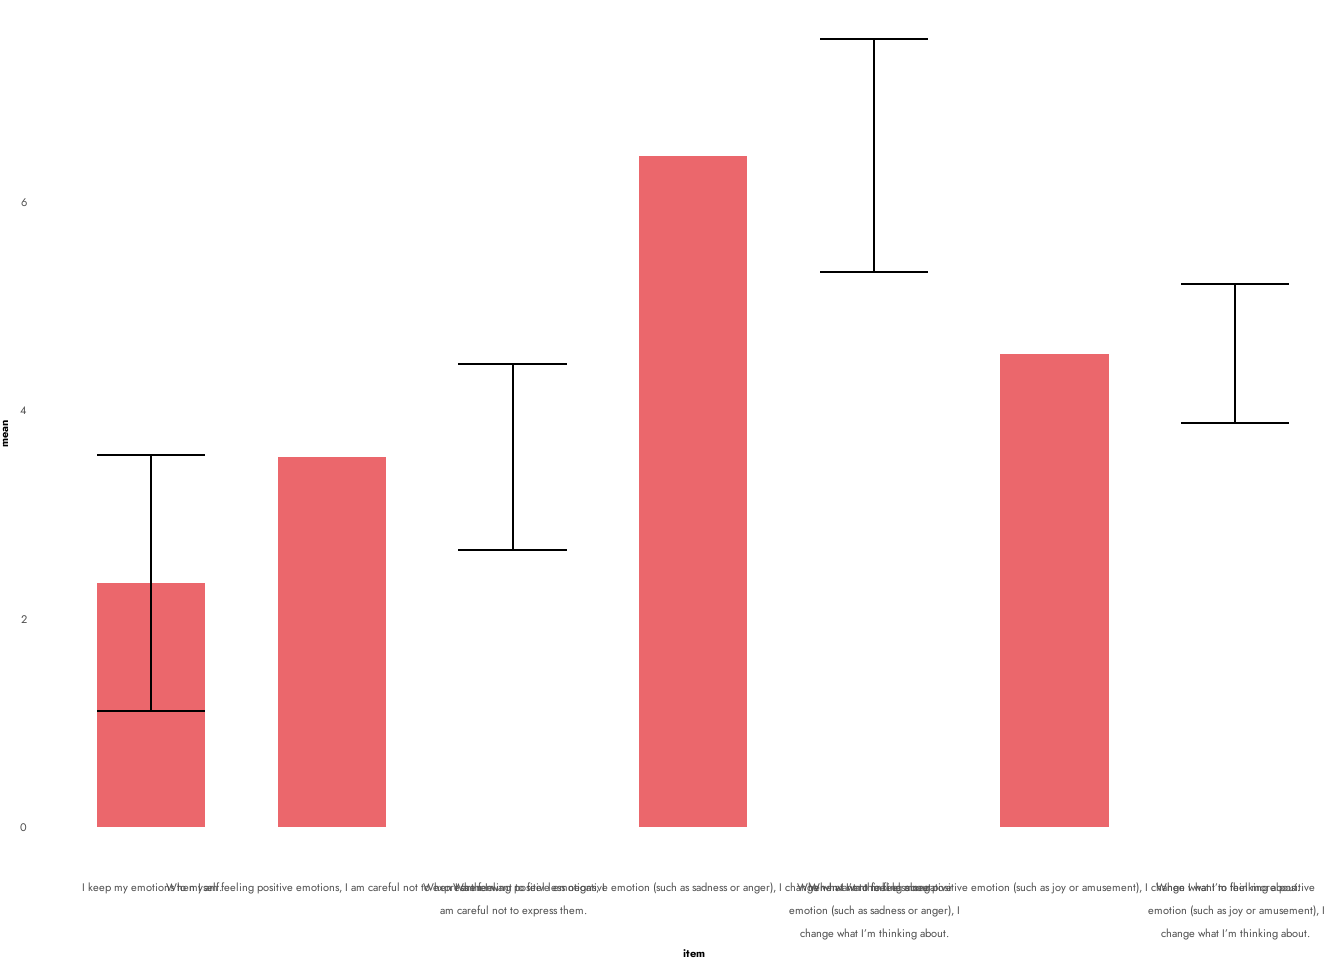
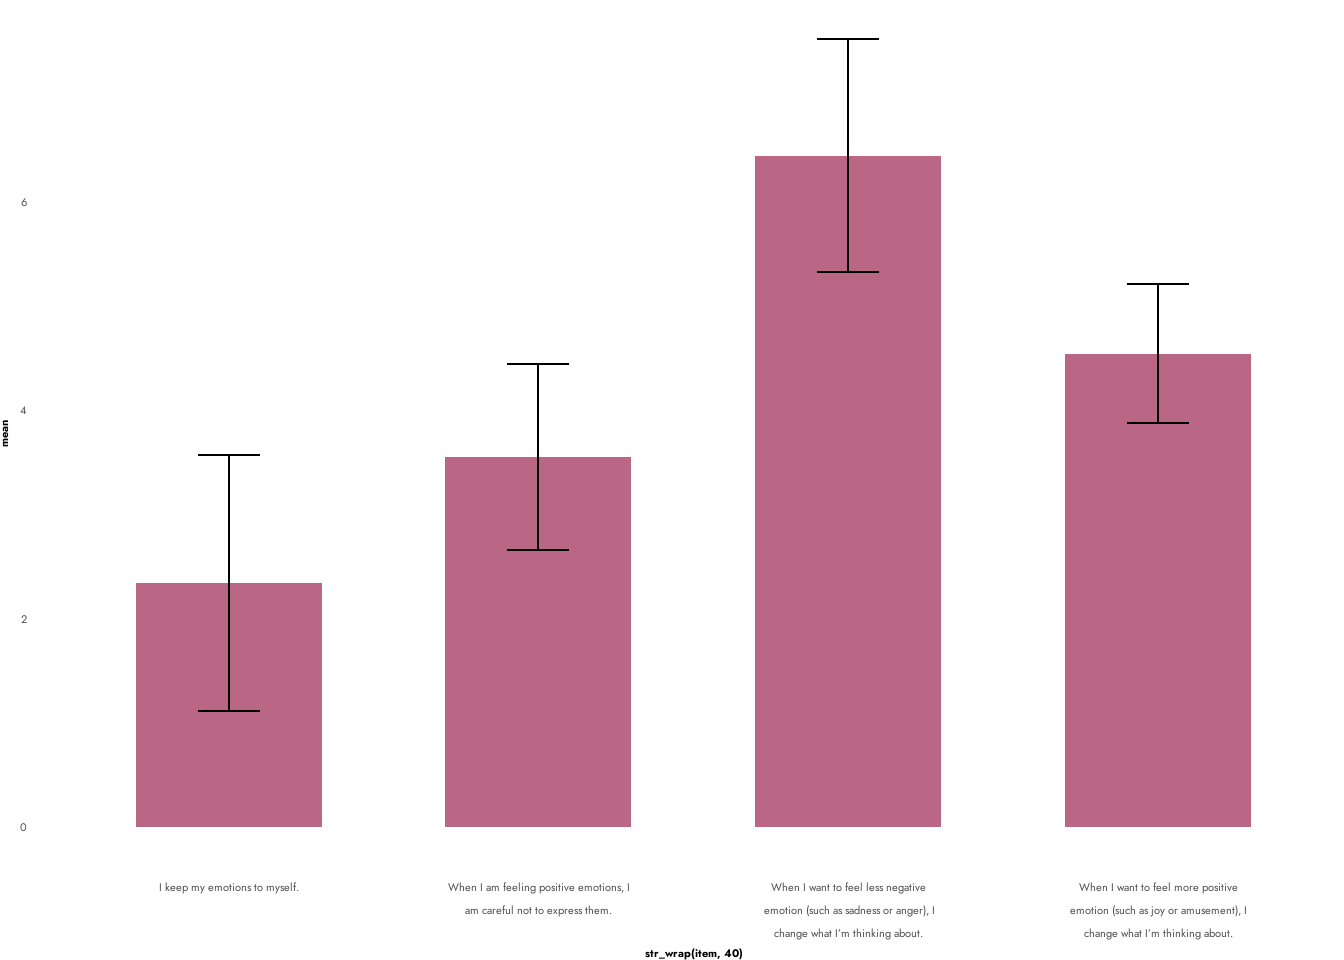
rerender

diff --git a/docs/chart_types.html b/docs/chart_types.html
@@ -257,8 +257,8 @@ pre > code.sourceCode > span > a:first-child::before { text-decoration: underlin
 </div>
 <div class="sourceCode cell-code" id="cb3"><pre class="sourceCode r code-with-copy"><code class="sourceCode r"><span id="cb3-1"><a href="#cb3-1" aria-hidden="true" tabindex="-1"></a><span class="fu">library</span>(showtext)</span></code><button title="Copy to Clipboard" class="code-copy-button"><i class="bi"></i></button></pre></div>
 <div class="cell-output cell-output-stderr">
-<pre><code>Ładowanie wymaganego pakietu: sysfonts
-Ładowanie wymaganego pakietu: showtextdb</code></pre>
+<pre><code>Loading required package: sysfonts
+Loading required package: showtextdb</code></pre>
 </div>
 <div class="sourceCode cell-code" id="cb5"><pre class="sourceCode r code-with-copy"><code class="sourceCode r"><span id="cb5-1"><a href="#cb5-1" aria-hidden="true" tabindex="-1"></a><span class="fu">library</span>(ggrepel)</span>
 <span id="cb5-2"><a href="#cb5-2" aria-hidden="true" tabindex="-1"></a><span class="fu">library</span>(ggfittext)</span>
@@ -403,9 +403,9 @@ Option 2:</p>
 <li><p>adding errorbars:</p>
 <div class="cell">
 <div class="sourceCode cell-code" id="cb10"><pre class="sourceCode r code-with-copy"><code class="sourceCode r"><span id="cb10-1"><a href="#cb10-1" aria-hidden="true" tabindex="-1"></a>df_long_labs <span class="sc">%&gt;%</span></span>
-<span id="cb10-2"><a href="#cb10-2" aria-hidden="true" tabindex="-1"></a><span class="fu">ggplot</span>(<span class="fu">aes</span>(<span class="at">x =</span> item, <span class="at">y =</span> mean)) <span class="sc">+</span></span>
-<span id="cb10-3"><a href="#cb10-3" aria-hidden="true" tabindex="-1"></a><span class="fu">geom_col</span>(<span class="at">fill =</span> cbu_cat_2[<span class="dv">2</span>], <span class="at">width =</span> .<span class="dv">6</span>) <span class="sc">+</span></span>
-<span id="cb10-4"><a href="#cb10-4" aria-hidden="true" tabindex="-1"></a><span class="fu">geom_errorbar</span>(<span class="fu">aes</span>(<span class="at">x =</span> <span class="fu">str_wrap</span>(item, <span class="dv">40</span>), <span class="at">ymin =</span> mean <span class="sc">-</span> sd, <span class="at">ymax =</span> mean <span class="sc">+</span> sd), <span class="at">width =</span> .<span class="dv">6</span>) <span class="sc">+</span></span>
+<span id="cb10-2"><a href="#cb10-2" aria-hidden="true" tabindex="-1"></a><span class="fu">ggplot</span>(<span class="fu">aes</span>(<span class="at">x =</span> <span class="fu">str_wrap</span>(item, <span class="dv">40</span>), <span class="at">y =</span> mean)) <span class="sc">+</span></span>
+<span id="cb10-3"><a href="#cb10-3" aria-hidden="true" tabindex="-1"></a><span class="fu">geom_col</span>(<span class="at">fill =</span> cbu_cat_1[<span class="dv">1</span>], <span class="at">width =</span> .<span class="dv">6</span>) <span class="sc">+</span></span>
+<span id="cb10-4"><a href="#cb10-4" aria-hidden="true" tabindex="-1"></a><span class="fu">geom_errorbar</span>(<span class="fu">aes</span>(<span class="at">x =</span> <span class="fu">str_wrap</span>(item, <span class="dv">40</span>), <span class="at">ymin =</span> mean <span class="sc">-</span> sd, <span class="at">ymax =</span> mean <span class="sc">+</span> sd),<span class="at">width =</span> .<span class="dv">2</span>) <span class="sc">+</span></span>
 <span id="cb10-5"><a href="#cb10-5" aria-hidden="true" tabindex="-1"></a><span class="fu">theme_cbu</span>()</span></code><button title="Copy to Clipboard" class="code-copy-button"><i class="bi"></i></button></pre></div>
 <div class="cell-output-display">
 <div>
@@ -464,17 +464,26 @@ Option 2:</p>
 <section id="line-charts" class="level3" data-number="5.0.3">
 <h3 data-number="5.0.3" class="anchored" data-anchor-id="line-charts"><span class="header-section-number">5.0.3</span> Line charts</h3>
 <p>Line charts are usually best suited for showing changes in time. One thing that sometimes comes up is a large number of lines that an make the plot unreadable. If possible we can then try to highlight just one (or a few) category and keep the rest in grey.</p>
-<pre class="{y{r}"><code>df_lines &lt;- data.frame(
-    date = rep(c(2012,2013,2014,2015, 2016), 5),
-    category = sort(rep(letters[1:5],5)),
-    value = rnorm(25)
-)
-
-df_lines %&gt;%
-ggplot(aes(x=date, y = value, color = category)) +
-geom_line(linewidth = 1.4) +
-scale_color_manual(values = cbu_cat_2) +
-theme_cbu()</code></pre>
+<div class="cell">
+<div class="sourceCode cell-code" id="cb13"><pre class="sourceCode r code-with-copy"><code class="sourceCode r"><span id="cb13-1"><a href="#cb13-1" aria-hidden="true" tabindex="-1"></a>df_lines <span class="ot">&lt;-</span> <span class="fu">data.frame</span>(</span>
+<span id="cb13-2"><a href="#cb13-2" aria-hidden="true" tabindex="-1"></a>    <span class="at">date =</span> <span class="fu">rep</span>(<span class="fu">c</span>(<span class="dv">2012</span>,<span class="dv">2013</span>,<span class="dv">2014</span>,<span class="dv">2015</span>, <span class="dv">2016</span>), <span class="dv">5</span>),</span>
+<span id="cb13-3"><a href="#cb13-3" aria-hidden="true" tabindex="-1"></a>    <span class="at">category =</span> <span class="fu">sort</span>(<span class="fu">rep</span>(letters[<span class="dv">1</span><span class="sc">:</span><span class="dv">5</span>],<span class="dv">5</span>)),</span>
+<span id="cb13-4"><a href="#cb13-4" aria-hidden="true" tabindex="-1"></a>    <span class="at">value =</span> <span class="fu">rnorm</span>(<span class="dv">25</span>)</span>
+<span id="cb13-5"><a href="#cb13-5" aria-hidden="true" tabindex="-1"></a>)</span>
+<span id="cb13-6"><a href="#cb13-6" aria-hidden="true" tabindex="-1"></a></span>
+<span id="cb13-7"><a href="#cb13-7" aria-hidden="true" tabindex="-1"></a>df_lines <span class="sc">%&gt;%</span></span>
+<span id="cb13-8"><a href="#cb13-8" aria-hidden="true" tabindex="-1"></a><span class="fu">ggplot</span>(<span class="fu">aes</span>(<span class="at">x=</span>date, <span class="at">y =</span> value, <span class="at">color =</span> category)) <span class="sc">+</span></span>
+<span id="cb13-9"><a href="#cb13-9" aria-hidden="true" tabindex="-1"></a><span class="fu">geom_line</span>(<span class="at">linewidth =</span> <span class="fl">1.4</span>) <span class="sc">+</span></span>
+<span id="cb13-10"><a href="#cb13-10" aria-hidden="true" tabindex="-1"></a><span class="fu">scale_color_manual</span>(<span class="at">values =</span> cbu_cat_2) <span class="sc">+</span></span>
+<span id="cb13-11"><a href="#cb13-11" aria-hidden="true" tabindex="-1"></a><span class="fu">theme_cbu</span>()</span></code><button title="Copy to Clipboard" class="code-copy-button"><i class="bi"></i></button></pre></div>
+<div class="cell-output-display">
+<div>
+<figure class="figure">
+<p><img src="chart_types_files/figure-html/unnamed-chunk-9-1.png" class="img-fluid figure-img" width="672"></p>
+</figure>
+</div>
+</div>
+</div>
 </section>
 <section id="scatterplots" class="level3" data-number="5.0.4">
 <h3 data-number="5.0.4" class="anchored" data-anchor-id="scatterplots"><span class="header-section-number">5.0.4</span> Scatterplots</h3>
@@ -496,7 +505,7 @@ theme_cbu()</code></pre>
 <div class="cell-output-display">
 <div>
 <figure class="figure">
-<p><img src="chart_types_files/figure-html/unnamed-chunk-9-1.png" class="img-fluid figure-img" width="672"></p>
+<p><img src="chart_types_files/figure-html/unnamed-chunk-10-1.png" class="img-fluid figure-img" width="672"></p>
 </figure>
 </div>
 </div>
@@ -526,7 +535,7 @@ theme_cbu()</code></pre>
 <div class="cell-output-display">
 <div>
 <figure class="figure">
-<p><img src="chart_types_files/figure-html/unnamed-chunk-10-1.png" class="img-fluid figure-img" width="672"></p>
+<p><img src="chart_types_files/figure-html/unnamed-chunk-11-1.png" class="img-fluid figure-img" width="672"></p>
 </figure>
 </div>
 </div>
@@ -554,7 +563,7 @@ theme_cbu()</code></pre>
 <div class="cell-output-display">
 <div>
 <figure class="figure">
-<p><img src="chart_types_files/figure-html/unnamed-chunk-11-1.png" class="img-fluid figure-img" width="672"></p>
+<p><img src="chart_types_files/figure-html/unnamed-chunk-12-1.png" class="img-fluid figure-img" width="672"></p>
 </figure>
 </div>
 </div>
@@ -583,7 +592,7 @@ theme_cbu()</code></pre>
 <div class="cell-output-display">
 <div>
 <figure class="figure">
-<p><img src="chart_types_files/figure-html/unnamed-chunk-12-1.png" class="img-fluid figure-img" width="672"></p>
+<p><img src="chart_types_files/figure-html/unnamed-chunk-13-1.png" class="img-fluid figure-img" width="672"></p>
 </figure>
 </div>
 </div>
@@ -617,7 +626,7 @@ theme_cbu()</code></pre>
 <div class="cell-output-display">
 <div>
 <figure class="figure">
-<p><img src="chart_types_files/figure-html/unnamed-chunk-13-1.png" class="img-fluid figure-img" width="672"></p>
+<p><img src="chart_types_files/figure-html/unnamed-chunk-14-1.png" class="img-fluid figure-img" width="672"></p>
 </figure>
 </div>
 </div>
